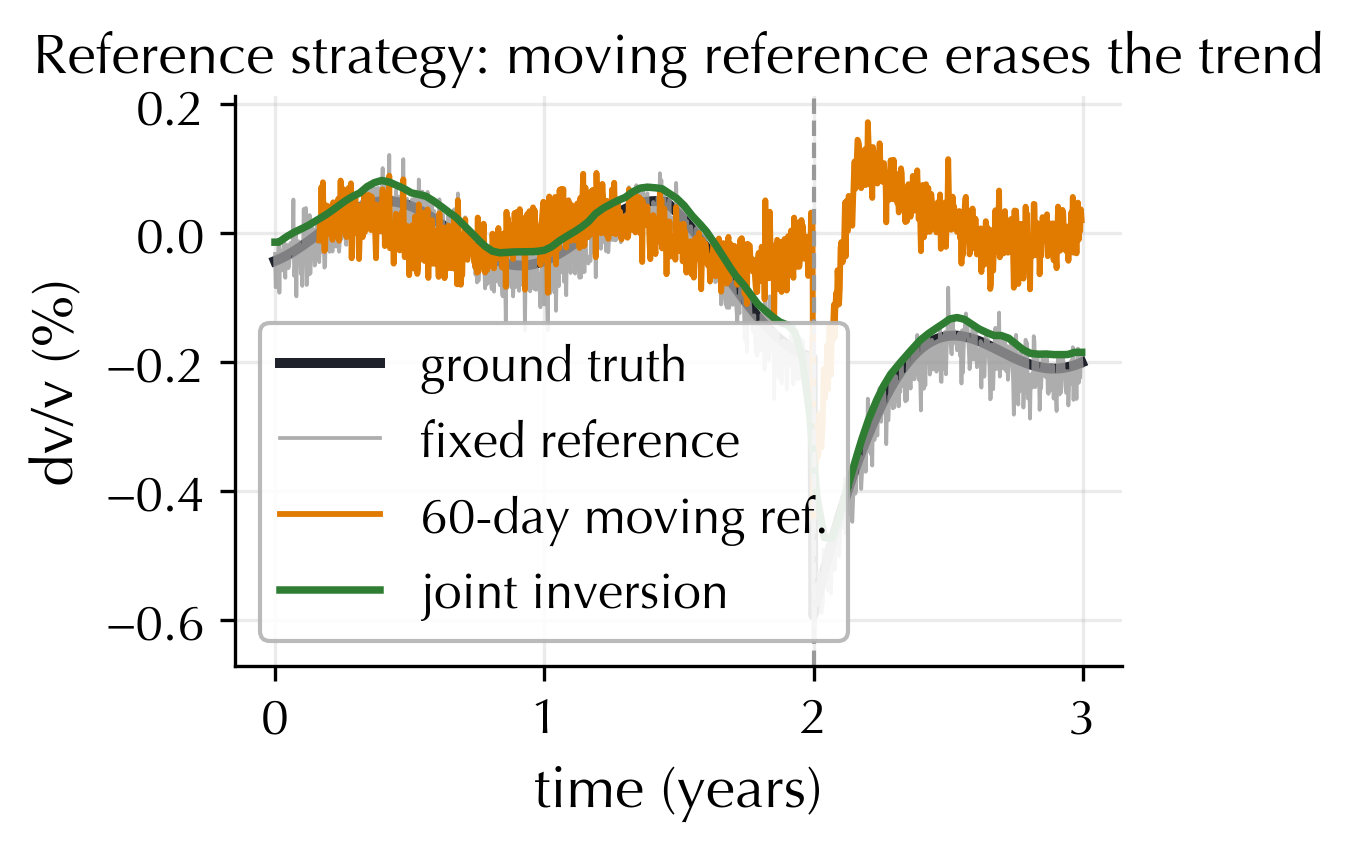
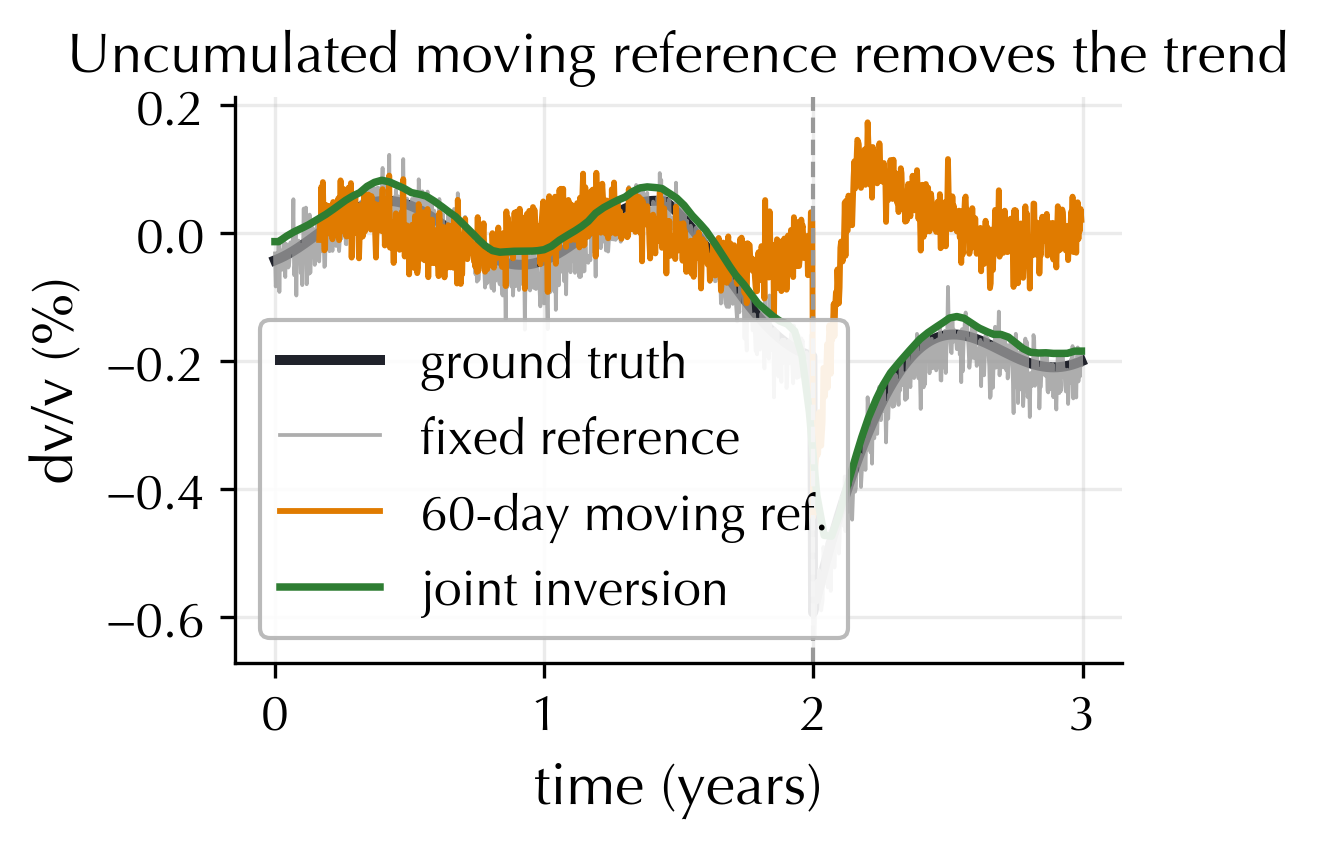
Rebuild the reference section around what the literature actually does
Fetched Rivet 2014 and James 2017 via the documented Wiley TDM path and read
them, rather than inferring from abstracts as I did with Ermert.

Rivet et al. (2014) is segment-wise stitching, verbatim: a separate reference
stack per period ("For the three time periods ... we define reference cross
correlation as the average of correlations during the entire time period"),
merged by "comput[ing] the relative velocity changes between the reference
cross-correlations of station pairs that stayed at the same sites for two
successive periods". Its bibliography yielded Sens-Schonfelder, Pomponi &
Peltier (2014), the multiple-reference study at the same volcano.

Rivet et al. (2011) was in the survey the whole time, coded from full text as
"previous-epoch referencing" -- in the uncertainty_treatment column, not
stack_scheme, which is why my earlier all-field search missed it. That search
also dropped the previous-epoch pattern I had used in the first pass. The
"none of the 103 studies" claim came from a search I ran carelessly.

The published alternatives to a fixed reference form two families, and the
uncumulated day-by-day trailing reference codameter sweeps is in neither:

  cumulated increments      James 2017, Rivet 2011 (and Zotz-Wilson 2019 in the
                            lab) -- recovers the trend, integrates error into a
                            random-walk drift, needs an independent anchor
[…]

diff --git a/paper/manuscript_marine.tex b/paper/manuscript_marine.tex
@@ -862,38 +862,59 @@ the fixed-reference baseline: RMS falls from \(\sim\!0.168\,\%\) at a
 (Fig.\textasciitilde{}\ref{fig:reference-schemes}b) --- the erasure is
 structural, not a noise effect that more averaging fixes.
 
-That erasure is a property of the \emph{increment}, however, not of the
-moving reference itself, and the distinction matters. A trailing
-reference measures the change between adjacent epochs; reporting those
-increments directly, as the sweep above does, discards the trend by
-construction. Cumulating them does not. \citet{James2017} re-baseline
-each day against the immediately preceding day-stack and sum the daily
-\(\delta t/t\) from a fixed start date, and thereby recover a seasonal
-freeze--thaw trend in Alaskan permafrost that a stationary reference
-failed to detect at all --- the large frozen-to-thawed velocity contrast
-made the stationary comparison cycle-skip, while adjacent days stayed
-coherent. The same rolling-reference construction is used in laboratory
-coda monitoring of rock deforming to failure, where scattering
-properties change too much for a fixed reference to remain valid
-\citep{ZotzWilson2019}. The cost is that summation integrates the
-measurement error: \citet{James2017} report a positive drift in the
-cumulated series that their quadrature error budget could not account
-for, and correct it linearly against a stationary-reference anchor. A
-cumulated trailing reference therefore trades a stationary-reference
-coherence limit for a random-walk drift, and needs an independent anchor
-to tie the accumulated series back to an absolute baseline.
+Read carefully, though, that erasure is a property of the
+\emph{uncumulated
+increment}, not of a non-fixed reference as such --- and the published
+alternatives to a fixed reference do not take the form the sweep
+assumes. They fall into two families, neither of which re-baselines
+every epoch and reports the raw increment.
 
-Reference \emph{selection} is a further axis, distinct from reference
-length. \citet{Ermert2023} adopt an explicitly multiple-reference
-approach for urban single-station autocorrelations in Mexico City,
-because long-term waveform coherence is unavailable there, and stabilise
-the stacks by clustering correlation windows with a Gaussian mixture
-model so that day-time and night-time noise regimes are stacked
-separately. codameter implements neither the cumulated trailing
-reference nor cluster-based reference selection; the moving-reference
-sweep above is the uncumulated increment, and should be read as a
-controlled demonstration of what re-baselining costs when the increments
-are not summed, not as a reproduction of either published construction.
+The first cumulates. \citet{James2017} re-baseline each day against the
+immediately preceding day-stack and sum the daily \(\delta t/t\) from a
+fixed start date, recovering a seasonal freeze--thaw trend in Alaskan
+permafrost that a stationary reference could not detect at all: the
+frozen-to-thawed velocity contrast made the stationary comparison
+cycle-skip, while adjacent days stayed coherent. \citet{Rivet2011}
+likewise reference each epoch to the previous one. The cost is that
+summation integrates the measurement error --- \citet{James2017} report
+a positive drift in the cumulated series that their quadrature error
+budget could not account for, and correct it linearly against a
+stationary-reference anchor. The same rolling construction appears in
+laboratory coda monitoring of rock deforming to failure, where the
+scattering properties change too much for a fixed reference to stay
+valid \citep{ZotzWilson2019}.
+
+The second holds the reference fixed within a segment and stitches the
+segments together. \citet{Rivet2014} define a separate reference stack
+for each of three multi-year periods at Piton de la Fournaise, then
+merge the three series by measuring the relative velocity change
+\emph{between} the adjacent segment references, using station pairs that
+occupied the same sites across the network change.
+\citet{SensSchonfelder2014} develop the multiple-reference form of the
+same idea at the same volcano, and \citet{Ermert2023} adopt a
+multiple-reference approach for urban single-station autocorrelations in
+Mexico City, where long-term waveform coherence is simply unavailable,
+stabilising the stacks by clustering correlation windows with a Gaussian
+mixture model so that day-time and night-time noise regimes stack
+separately.
+
+That second family is worth naming precisely, because it is not a
+separate method from the joint inversion --- it is a restriction of it.
+Stitching two segments by measuring the relative dv/v between their
+references is exactly the adjacent-pair case of the over-determined
+system the inversion solves over all pairs of block stacks. The
+reference axis is therefore better read as a single continuum, from one
+global reference, through segment references joined pairwise, to the
+fully coupled inversion, than as a menu of unrelated choices.
+
+Against that, the uncumulated day-by-day trailing reference swept above
+is a limit case rather than a practice: we found no surveyed study that
+re-baselines continuously and reports the increments without summing
+them. It is retained here because it isolates what re-baselining costs
+when the trend is not reconstructed, which is the failure mode the two
+families above exist to avoid. codameter implements the joint inversion
+but neither the cumulated trailing reference nor cluster-based reference
+selection.
 
 \begin{figure}
   \centering
@@ -989,7 +1010,8 @@ clearing it.
   \includegraphics[width=0.49\textwidth]{demo_6_stacking.png}
   \caption{Parameter choices. (a) Frequency band selects depth and signal. (b)
   A coda window does not transfer across bands. (c) Reference strategy: a moving
-  reference erases the trend a fixed reference and the joint inversion keep. (d)
+  reference differences the trend away unless its increments are cumulated;
+  a fixed reference and the joint inversion retain it. (d)
   Stacking length smears the coseismic step.}
   \label{fig:params}
 \end{figure}

diff --git a/src/codameter/synthetic_demo.py b/src/codameter/synthetic_demo.py
@@ -567,8 +567,14 @@ def measure_stretching_moving(
 ) -> np.ndarray:
     """Stretching dv/v against a *trailing* reference (previous ``ref_days``).
 
-    A moving reference re-baselines continuously, so it removes slow trends —
-    the canonical reason a moving reference and a fixed reference disagree.
+    Returns the *uncumulated* per-epoch increment: each day is referenced to
+    the mean of the preceding ``ref_days``, so a slow trend is differenced away
+    rather than measured. Published trailing-reference workflows do not stop
+    here — James et al. (2017) sum these increments from a fixed start date to
+    reconstruct the trend, at the cost of a random-walk drift that needs an
+    independent anchor. That summation is not applied here; this function is the
+    increment alone, which is what makes it a clean isolation of the cost of
+    re-baselining.
     """
     cur_mat = np.atleast_2d(cur_mat)
     ndays = cur_mat.shape[0]
@@ -1982,7 +1988,7 @@ def fig_reference(seed: int = 33):
     ax.set(
         xlabel="time (years)",
         ylabel="dv/v (%)",
-        title="Reference strategy: moving reference erases the trend",
+        title="Uncumulated moving reference removes the trend",
     )
     leg = ax.legend(loc="lower left", fontsize=12, frameon=True)
     leg.get_frame().set(facecolor="white", alpha=0.9, edgecolor="0.7")
